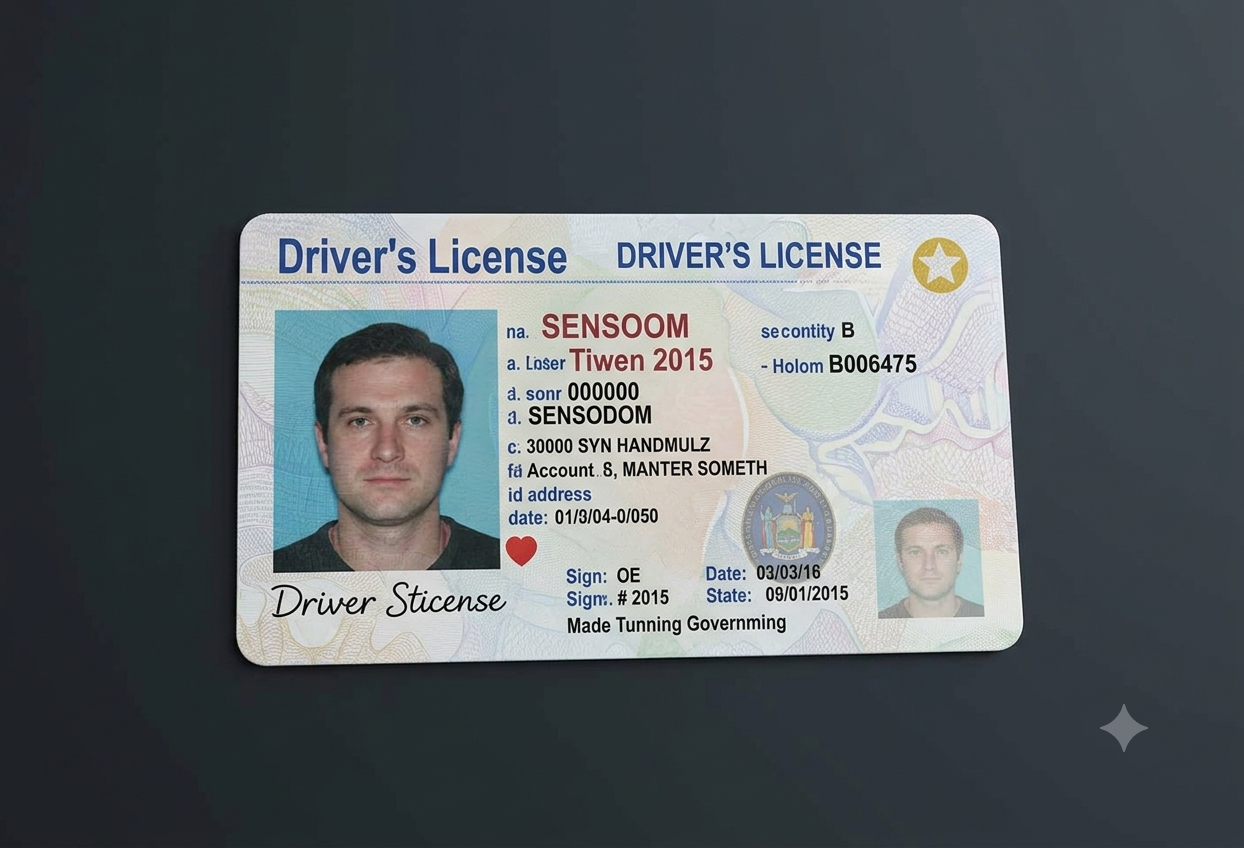
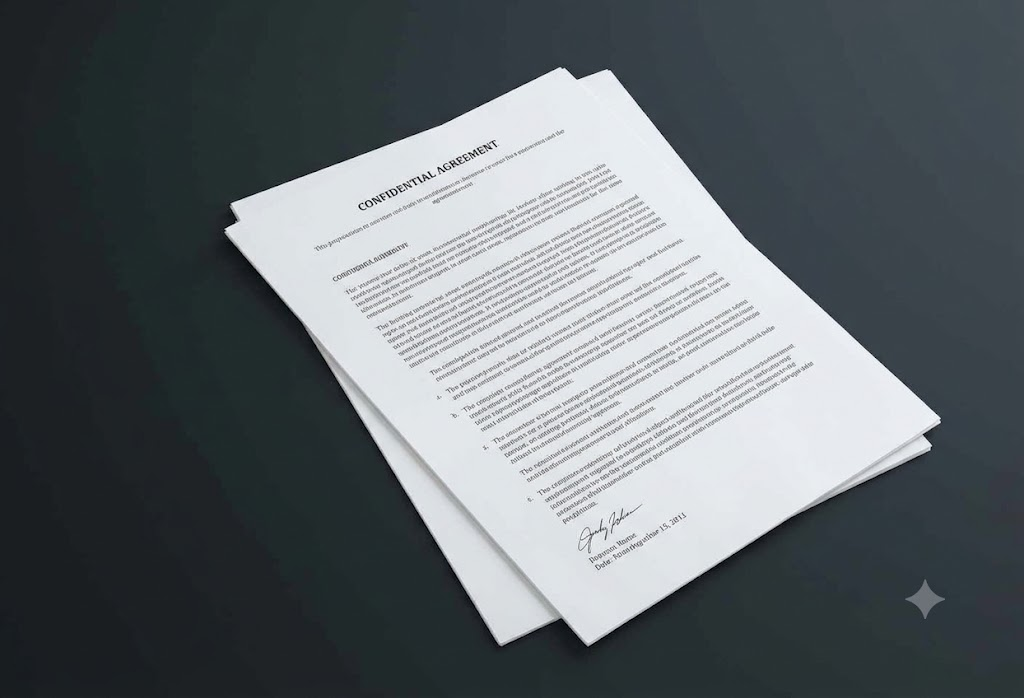
Day-15: Challenge Task - 5 tilted documents processed

diff --git a/Day-15/challenge_task.py b/Day-15/challenge_task.py
@@ -1,0 +1,65 @@
+import cv2
+import numpy as np
+import os
+from document_enhancer_app import correct_perspective
+
+# All 5 tilted images required for the Challenge Task
+challenge_images = [f"input/sample{i}.jpg" for i in range(1, 6)]
+
+
+def enhance(img_bgr):
+    gray = cv2.cvtColor(img_bgr, cv2.COLOR_BGR2GRAY)
+    denoised = cv2.bilateralFilter(gray, 9, 75, 75)
+    enhanced = cv2.convertScaleAbs(denoised, alpha=1.3, beta=15)
+    sharpen_kernel = np.array([[0, -1, 0], [-1, 5, -1], [0, -1, 0]])
+    return cv2.filter2D(enhanced, -1, sharpen_kernel)
+
+
+def make_comparison(original, corrected, final, label):
+    # Resize all three to the same height so they line up side by side
+    target_h = 400
+    def resize_to_height(img, h):
+        scale = h / img.shape[0]
+        return cv2.resize(img, (int(img.shape[1] * scale), h))
+
+    o = resize_to_height(original, target_h)
+    c = resize_to_height(cv2.cvtColor(corrected, cv2.COLOR_GRAY2BGR)
+                          if corrected.ndim == 2 else corrected, target_h)
+    f = resize_to_height(cv2.cvtColor(final, cv2.COLOR_GRAY2BGR), target_h)
+
+    labeled = []
+    for img, text in [(o, "Original"), (c, "Perspective-Corrected"), (f, "Final Enhanced")]:
+        img = img.copy()
+        cv2.rectangle(img, (0, 0), (img.shape[1], 30), (0, 0, 0), -1)
+        cv2.putText(img, text, (10, 22), cv2.FONT_HERSHEY_SIMPLEX, 0.6, (255, 255, 255), 2)
+        labeled.append(img)
+
+    comparison = np.hstack(labeled)
+    return comparison
+
+
+print("===== CHALLENGE TASK: 5 TILTED DOCUMENTS =====\n")
+
+os.makedirs("output/challenge", exist_ok=True)
+
+for path in challenge_images:
+    name = os.path.splitext(os.path.basename(path))[0]
+    original = cv2.imread(path)
+    if original is None:
+        print(f"[{name}] Error: could not read {path} - skipping.")
+        continue
+
+    corrected, was_corrected = correct_perspective(original)
+    final = enhance(corrected)
+
+    cv2.imwrite(f"output/challenge/{name}_original.jpg", original)
+    cv2.imwrite(f"output/challenge/{name}_corrected.jpg", corrected)
+    cv2.imwrite(f"output/challenge/{name}_final.jpg", final)
+
+    comparison = make_comparison(original, corrected, final, name)
+    cv2.imwrite(f"output/challenge/{name}_comparison.jpg", comparison)
+
+    status = "perspective corrected" if was_corrected else "correction skipped (no clear edges)"
+    print(f"[{name}] {original.shape[1]}x{original.shape[0]} -> {status}")
+
+print("\nChallenge Task complete. Results saved to output/challenge/")
